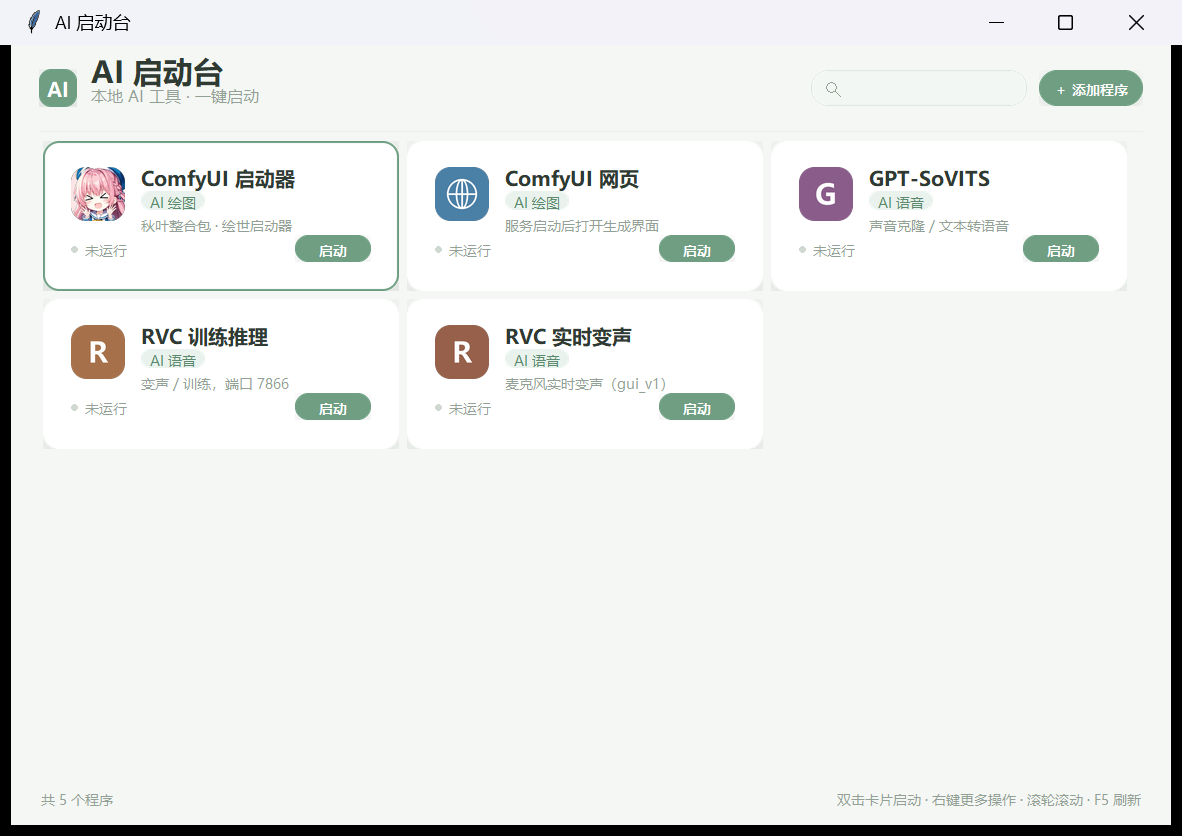
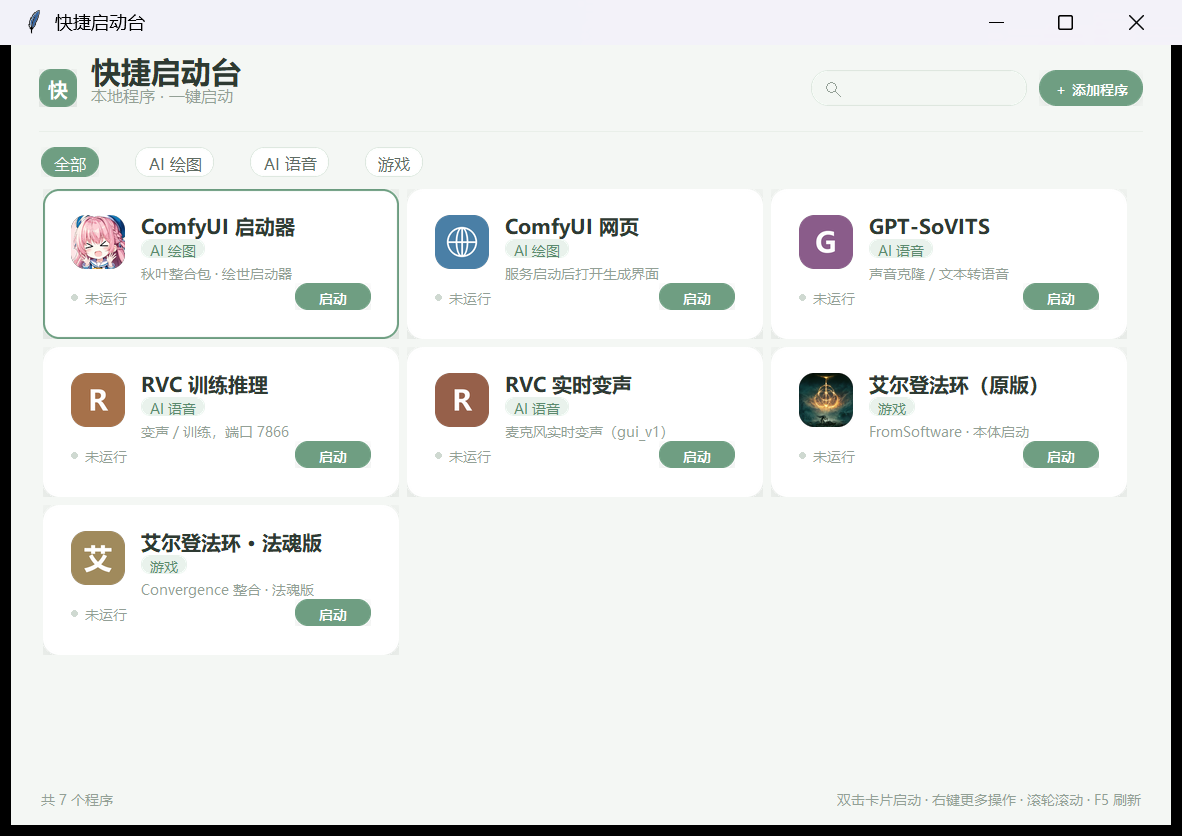
feat: 改名快捷启动台，新增分类筛选栏与游戏条目
- 应用名改为「快捷启动台」，logo 与窗口标题同步
- 顶部新增分类标签栏：从条目的 category 自动汇总去重，可与搜索叠加过滤
- 卡片悬停底色改为 #E1EDE6，阴影同步加深
- 读取配置改用 utf-8-sig，兼容带 BOM 的 apps.json
- README 更新配色表、分类说明、艾尔登法环示例

diff --git a/launcher.py b/launcher.py
@@ -1,6 +1,6 @@
 # -*- coding: utf-8 -*-
 """
-AI 启动台 —— 浅色绿色系的本地程序启动器。
+快捷启动台 —— 浅色绿色系的本地程序启动器。
 
 把一个程序（exe / bat / 网址 / 文件夹）做成一张圆角卡片，点一下就启动。
 配置存在同目录的 apps.json。
@@ -59,7 +59,7 @@ FONT_FAMILY = "Microsoft YaHei UI"
 # ---------------------------------------------------------------- 配色
 BG = "#F4F7F4"            # 页面底色：带绿意的米白
 SURFACE = "#FFFFFF"       # 卡片
-SURFACE_HOVER = "#FCFEFC"
+SURFACE_HOVER = "#E1EDE6"
 FIELD = "#F3F7F3"         # 输入框填充
 BORDER = "#DCE6DE"        # 描边
 PRIMARY = "#6F9E82"       # 主色：低饱和鼠尾草绿
@@ -476,7 +476,8 @@ def app_image_name(app):
 def load_config():
     if os.path.exists(CONFIG_PATH):
         try:
-            with open(CONFIG_PATH, "r", encoding="utf-8") as f:
+            # utf-8-sig：允许别人用带 BOM 的编辑器/脚本改过配置文件
+            with open(CONFIG_PATH, "r", encoding="utf-8-sig") as f:
                 data = json.load(f)
             apps = data.get("apps", [])
             return {"apps": apps if isinstance(apps, list) else [], "window": data.get("window", {})}
@@ -930,8 +931,9 @@ class Launcher(tk.Tk):
         self._icon_cache = {}
         self._cols = 0
         self._scroll_frac = 0.0
+        self.active_category = None
 
-        self.title("AI 启动台")
+        self.title("快捷启动台")
         self.configure(bg=BG)
         self.minsize(px(680), px(520))
         geo = (self.cfg.get("window") or {}).get("geometry")
@@ -987,6 +989,10 @@ class Launcher(tk.Tk):
         self.header.pack(side="top", fill="x", padx=px(PAGE_PAD), pady=(px(8), 0))
         self.header.bind("<Configure>", lambda e: self._draw_header())
 
+        self.catbar = tk.Canvas(self, bg=BG, height=px(46), bd=0, highlightthickness=0)
+        self.catbar.pack(side="top", fill="x", padx=px(PAGE_PAD), pady=(px(2), 0))
+        self.catbar.bind("<Configure>", lambda e: self._draw_catbar())
+
         body = tk.Frame(self, bg=BG)
         body.pack(side="top", fill="both", expand=True)
         self.canvas = tk.Canvas(body, bg=BG, highlightthickness=0, bd=0)
@@ -1016,11 +1022,11 @@ class Launcher(tk.Tk):
                         shadow_blur=px(6), shadow_dy=px(2))
         self._logo_photo = ImageTk.PhotoImage(logo)
         h.create_image(0, px(16), anchor="nw", image=self._logo_photo)
-        h.create_text(logo_s / 2, px(16) + logo_s / 2 + px(1), text="AI", fill="#FFFFFF",
+        h.create_text(logo_s / 2, px(16) + logo_s / 2 + px(1), text="快", fill="#FFFFFF",
                       font=self.fonts["logo"])
-        h.create_text(logo_s + px(14), px(18), anchor="w", text="AI 启动台", fill=TEXT,
+        h.create_text(logo_s + px(14), px(18), anchor="w", text="快捷启动台", fill=TEXT,
                       font=self.fonts["title"])
-        h.create_text(logo_s + px(14), px(42), anchor="w", text="本地 AI 工具 · 一键启动",
+        h.create_text(logo_s + px(14), px(42), anchor="w", text="本地程序 · 一键启动",
                       fill=MUTED, font=self.fonts["subtitle"])
 
         btn_w, search_w, gap = 104, 216, 12
@@ -1046,6 +1052,53 @@ class Launcher(tk.Tk):
         h.create_window(btn_x, px(17), anchor="nw", window=self.btn_add,
                         width=px(btn_w), height=px(36))
         h.create_line(0, px(78), w, px(78), fill="#E9EFE9")
+
+    def _categories(self):
+        cats = []  # (value, label)
+        seen = set()
+        for a in self.apps:
+            c = (a.get("category") or "").strip()
+            if c not in seen:
+                seen.add(c)
+                cats.append((c, c or "未分类"))
+        return cats
+
+    def _draw_catbar(self):
+        cb = self.catbar
+        cb.delete("all")
+        w = max(cb.winfo_width(), px(320))
+        pills = [("全部", None)] + [(label, value) for value, label in self._categories()]
+        x = px(2)
+        y = px(8)
+        h = px(30)
+        gap = px(10)
+        self._cat_hit = []
+        for label, value in pills:
+            active = (self.active_category == value) if value is not None else (self.active_category is None)
+            tw = self.fonts["label"].measure(label)
+            pw = tw + px(26)
+            fill = PRIMARY if active else SURFACE
+            fg = "#FFFFFF" if active else TEXT_MID
+            outline = None if active else BORDER
+            img = rr_image(pw, h, h // 2, fill, outline=outline, outline_width=1,
+                           shadow=((*SHADOW[:3], 20) if active else None),
+                           shadow_blur=px(4), shadow_dy=px(1))
+            ph = ImageTk.PhotoImage(img)
+            setattr(self, f"_catimg_{x}", ph)
+            tag = f"cat_{label}"
+            cb.create_image(x, y, anchor="nw", image=ph, tags=(tag,))
+            cb.create_text(x + pw / 2, y + h / 2 + px(1), text=label, fill=fg,
+                           font=self.fonts["label"], tags=(tag,))
+            cb.tag_bind(tag, "<Button-1>", lambda e, v=value: self._on_cat_click(v))
+            self._cat_hit.append((x, pw, value))
+            x += pw + px(26) + gap
+        if hasattr(self, "_cat_photos"):
+            del self._cat_photos
+
+    def _on_cat_click(self, value):
+        self.active_category = value
+        self.refresh()
+        self._draw_catbar()
 
     def _draw_footer(self):
         f = self.footer
@@ -1162,9 +1215,11 @@ class Launcher(tk.Tk):
     def refresh(self):
         query = self.search_var.get().strip().lower() if hasattr(self, "search_var") else ""
         visible = [a for a in self.apps
-                   if not query or query in a.get("name", "").lower()
-                   or query in a.get("category", "").lower()
-                   or query in a.get("path", "").lower()]
+                   if (not query or query in a.get("name", "").lower()
+                       or query in a.get("category", "").lower()
+                       or query in a.get("path", "").lower())
+                   and (self.active_category is None
+                        or (a.get("category") or "").strip() == self.active_category)]
 
         for card in self.cards:
             card.destroy()
@@ -1181,6 +1236,8 @@ class Launcher(tk.Tk):
         self._start_icon_loader()
         if hasattr(self, "footer"):
             self._draw_footer()
+        if hasattr(self, "catbar"):
+            self._draw_catbar()
         if visible:
             self.select(self.cards[0], force=True)
 

diff --git a/README.md b/README.md
@@ -1,6 +1,6 @@
-# AI 启动台（AI Launcher）
+# 快捷启动台（Quick Launcher）
 
-浅色绿色系的本地程序启动器：把常用的 AI 工具（ComfyUI、GPT-SoVITS、RVC……）做成圆角卡片，点一下就启动。
+浅色绿色系的本地程序启动器：把常用程序（ComfyUI、GPT-SoVITS、RVC、艾尔登法环……）做成圆角卡片，按分类归拢，点一下就启动。
 
 单文件、纯 Python 标准库 + Pillow，不需要安装框架，双击就能跑。
 
@@ -17,6 +17,7 @@
 | 主色浅底 | `#E9F2EC` |
 | 页面底色 | `#F4F7F4` |
 | 卡片 | `#FFFFFF` |
+| 卡片（悬停） | `#E1EDE6` |
 | 描边 | `#DCE6DE` |
 | 主文字 | `#2E3A32` |
 | 次要文字 | `#93A096` |
@@ -25,17 +26,19 @@
 
 - **圆角**：所有卡片、按钮、输入框、分段控件都用 Pillow 以 4 倍超采样绘制圆角矩形再降采样，边缘是抗锯齿的，不是 Tk 画布上那种锯齿折线。
 - **软阴影**：高斯模糊的圆角投影，按状态（常态/悬停/选中）调整透明度与模糊半径。
+- **悬停反馈**：鼠标移入时卡片底色变为浅绿 `#E1EDE6`，阴影同步加深，和页面对比明显。
 - **扁平**：没有渐变、没有多余线条，层级靠留白、字重和极浅的描边区分。
 - **DPI 自适应**：几何尺寸按 96dpi 设计（`px()` 统一换算），字体用 pt 随 DPI 缩放，所以在 125% / 150% 缩放下同样清晰、比例一致。
 
 ## 特性
 
+- **分类筛选**：自动汇总所有条目的分类，顶部生成「全部 / 游戏 / AI 绘图 / AI 语音 …」标签栏，点一下只看该分类；和搜索框可同时生效。
 - **三种条目类型**：`exe`（程序 / bat / ps1 / lnk）、`web`（网址，用默认浏览器打开）、`folder`（文件夹，用资源管理器打开）
 - **真实图标**：用 Win32 API 从 exe 里提取图标（优先 256px 高清），再裁成圆角方块；网址条目自动绘制地球图标，批处理文件用彩色字母块
 - **运行状态检测**：卡片上的圆点和按钮显示「运行中 / 未运行」；对「外壳型」启动器（自己拉起真正的进程后退出）也能跟踪
 - **重复启动保护**：已在运行时再点不会重复开一份
 - **停止进程**：右键菜单「停止运行」，按进程树结束
-- **可视化编辑**：`＋ 添加程序` 弹窗，圆角输入框 + 文件选择器 + 分段选择类型
+- **可视化编辑**：`＋ 添加程序` 弹窗，圆角输入框 + 文件选择器 + 分段选择类型 + 分类字段
 - **搜索过滤**：按名称、分类、路径实时筛选
 - **记住状态**：窗口尺寸位置、程序清单一律存进 `apps.json`
 - **零配置启动**：`apps.json` 不存在时自动生成示例条目
@@ -70,6 +73,7 @@ pythonw launcher.py
 
 | 操作 | 效果 |
 |---|---|
+| 顶部分类标签 | 按分类过滤，「全部」显示所有 |
 | 单击卡片 | 选中（绿色描边） |
 | **双击卡片** | 启动 |
 | 单击卡片右下角「启动」 | 启动 |
@@ -86,14 +90,14 @@ pythonw launcher.py
 {
   "apps": [
     {
-      "name": "ComfyUI 启动器",
-      "path": "D:\\AI\\ComfyUI\\绘世启动器.exe",
-      "workdir": "D:\\AI\\ComfyUI",
+      "name": "艾尔登法环（原版）",
+      "path": "D:\\steam\\steamapps\\common\\ELDEN RING\\Game\\eldenring.exe",
+      "workdir": "D:\\steam\\steamapps\\common\\ELDEN RING\\Game",
       "args": "",
       "type": "exe",
-      "category": "AI 绘图",
-      "color": "#6F9E82",
-      "desc": "秋叶整合包 · 绘世启动器"
+      "category": "游戏",
+      "color": "#8C9AA8",
+      "desc": "FromSoftware · 本体启动"
     },
     {
       "name": "ComfyUI 网页",
@@ -112,14 +116,17 @@ pythonw launcher.py
 |---|---|
 | `name` | 卡片标题 |
 | `path` | 程序全路径 / 网址 / 文件夹路径 |
-| `workdir` | 工作目录，留空则取 `path` 所在目录。**整合包类程序必须填对**，否则找不到自己的运行时 |
+| `workdir` | 工作目录，留空则取 `path` 所在目录。**整合包 / 游戏 mod 类程序必须填对**，否则找不到自己的运行时 |
 | `args` | 启动参数，空格分隔 |
 | `type` | `exe` / `web` / `folder` |
-| `category` | 分类，也参与搜索 |
+| `category` | 分类，决定卡片上的小标签和顶部分类栏 |
 | `color` | 没有可用图标时字母块的颜色，`#RRGGBB` |
 | `desc` | 卡片副标题，留空则显示路径 |
 
 ## 常见问题
+
+**分类是怎么来的？**
+分类不是单独维护的列表，而是从每个条目的 `category` 字段自动去重汇总。改某个条目的分类，顶部的标签栏下次刷新（F5）就会跟着变；没有任何条目的分类自动消失。
 
 **批处理（.bat）条目显示的是字母块而不是图标？**
 Windows 给 `.bat` 的统一是同一个通用齿轮图标，看起来比字母块更糊，所以程序刻意对 `.bat/.cmd/.ps1/.vbs` 用彩色字母块。想换图标就把 `type` 改成指向一个 `.lnk` 快捷方式。
